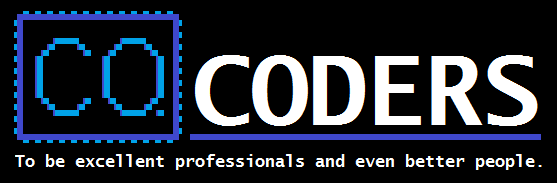
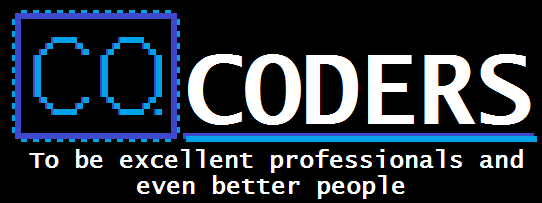
documento-app

diff --git a/assets/header.php b/assets/header.php
@@ -14,8 +14,8 @@ echo "
         line-height: 110%;
         margin-left: 1%;
         margin-top: 1%;
-        width: 350px;
-        height: 120px;
+        width: 262px;
+        height: 85px;
     }
 
     .img1 {
